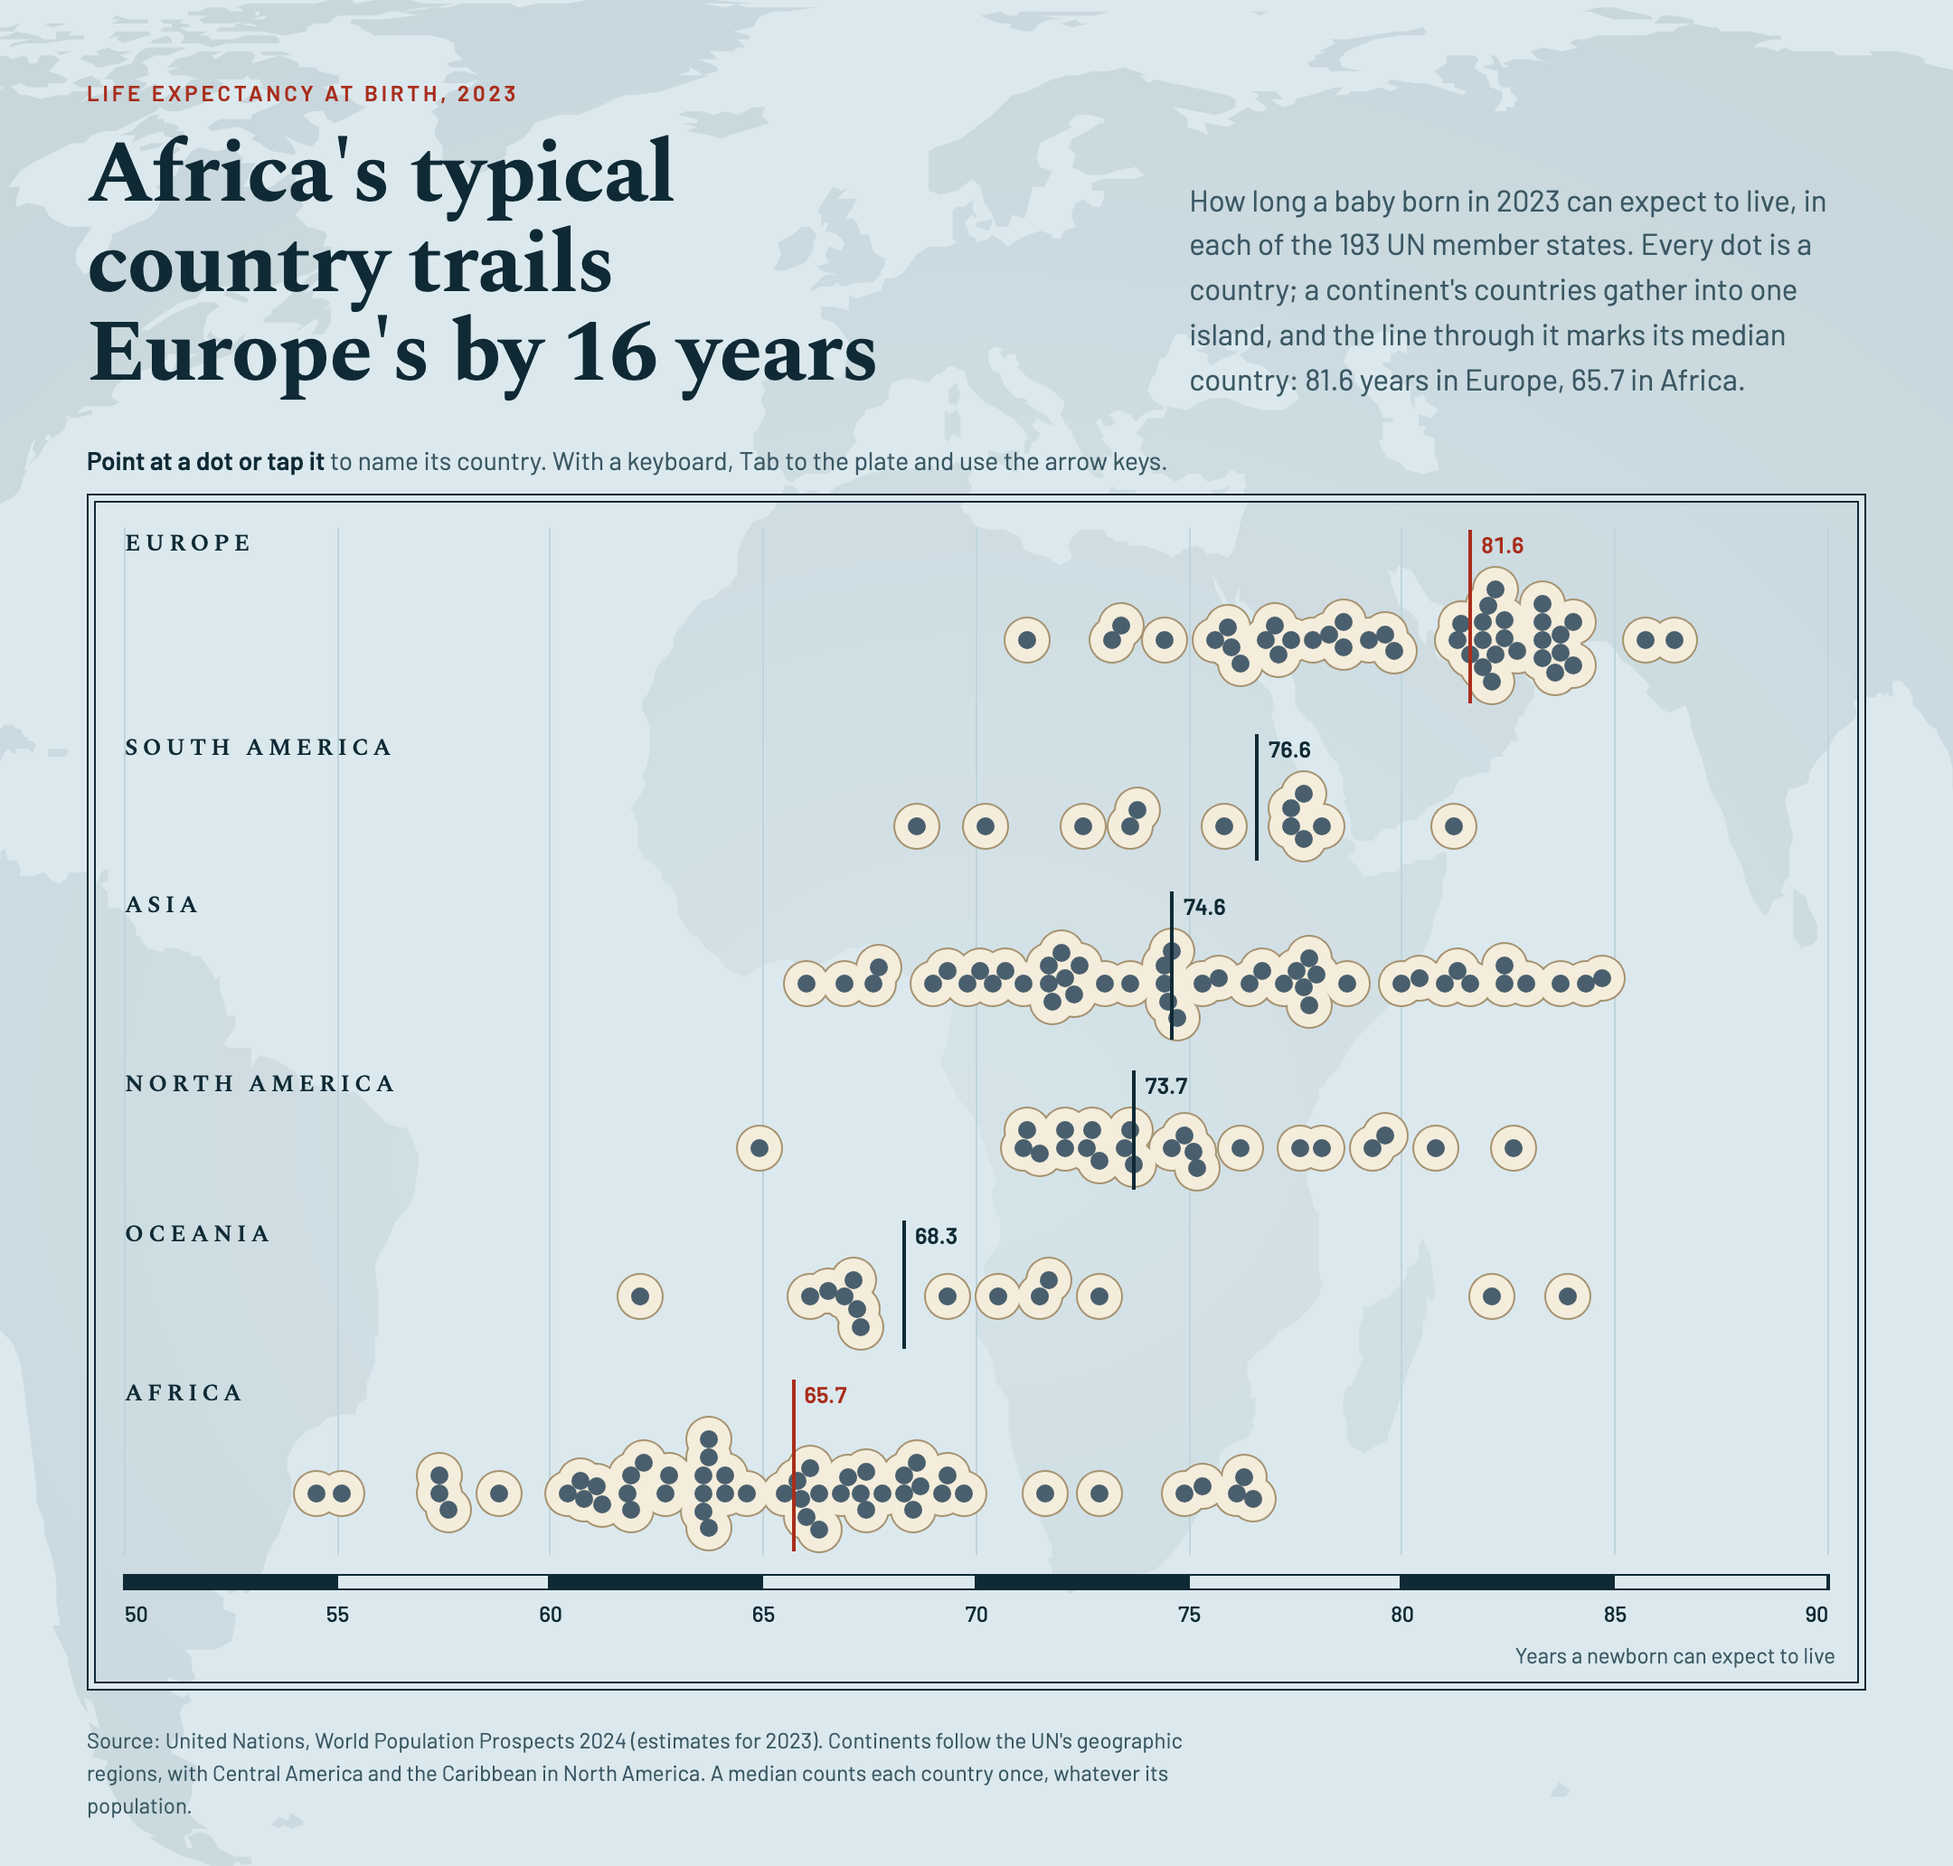
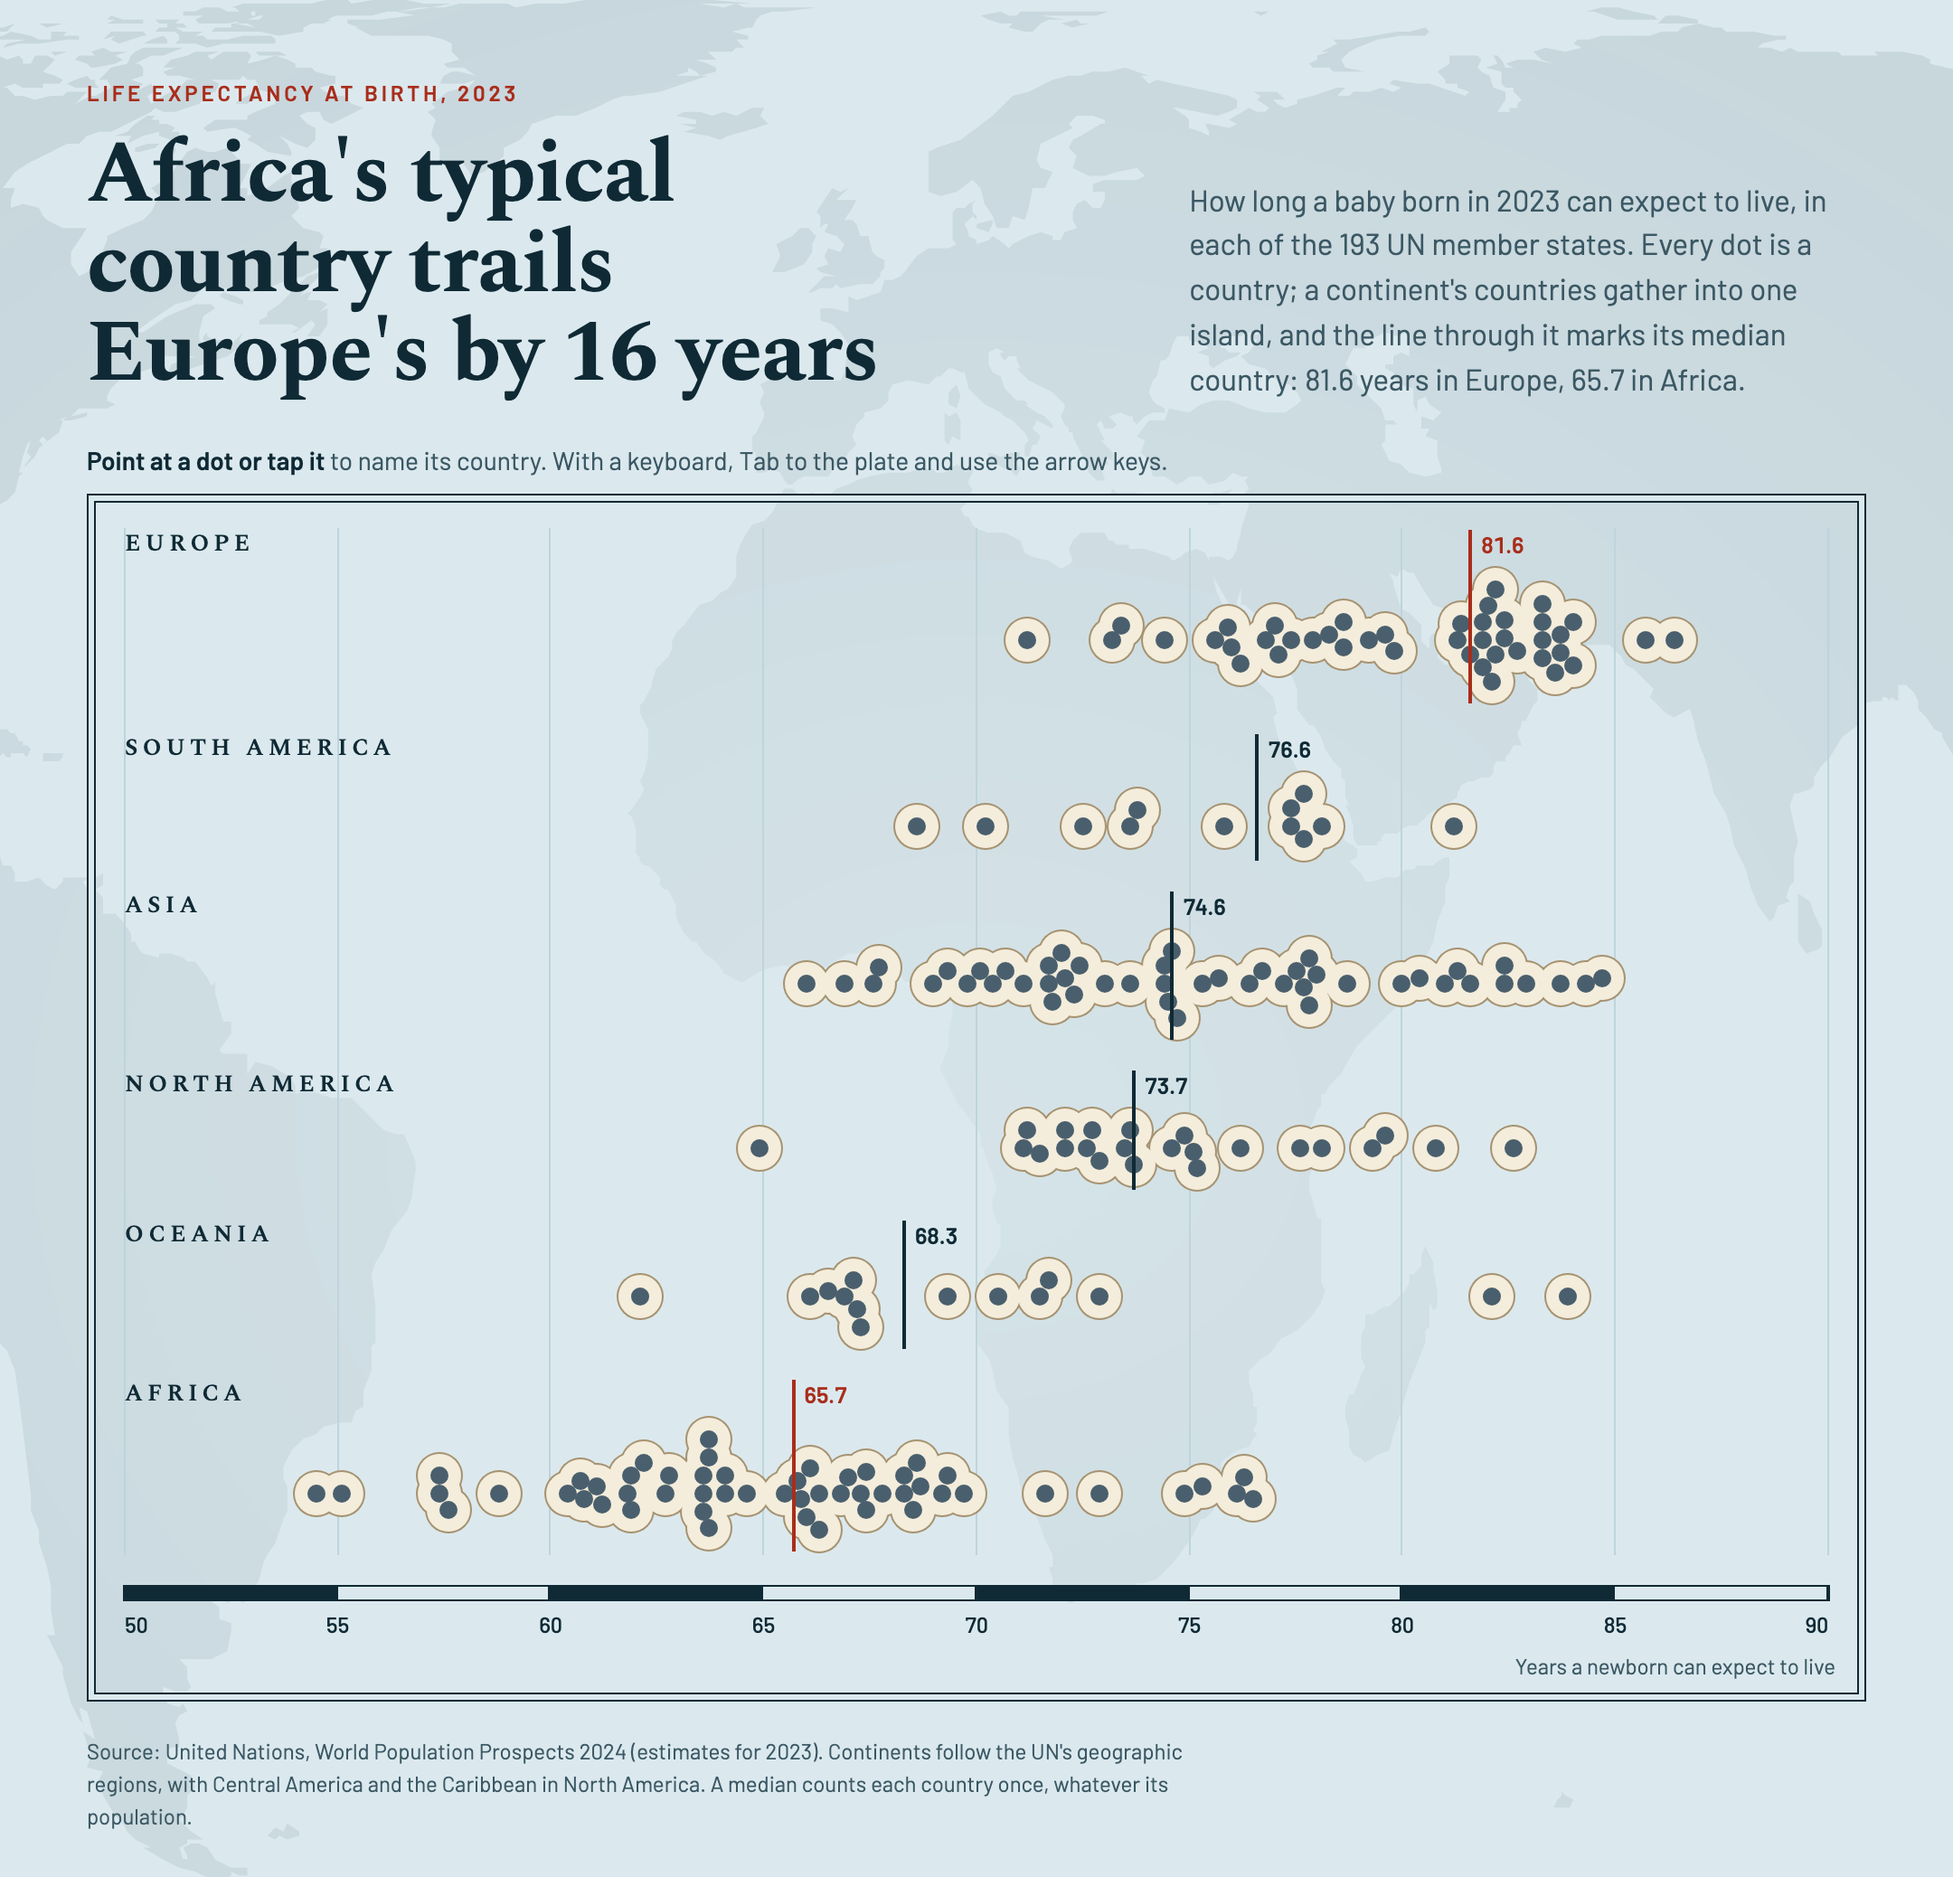
Recipe 35: 6px more again between the islands and the scale under them

diff --git a/public/gallery/posters/life-expectancy/index.html b/public/gallery/posters/life-expectancy/index.html
@@ -219,12 +219,12 @@ const THEME = {
 // The scale under the plate, drawn as an atlas's scale bar: a segment every five years, inked and blank in turn,
 // with its number; a faint meridian runs up from each one
 const Years = slat({
-  room: { start: 4, end: 4, after: 46 },
+  room: { start: 4, end: 4, after: 52 },
   css: `
     .meridian { --rhp-tick-width: 1px; background: var(--rhp-grid); }
-    .seg { top: calc(100% + 15px); bottom: auto; height: 7px; --rhp-radius: 0px; background: var(--rhp-ink); box-shadow: 0 0 0 1px var(--rhp-ink); }
+    .seg { top: calc(100% + 21px); bottom: auto; height: 7px; --rhp-radius: 0px; background: var(--rhp-ink); box-shadow: 0 0 0 1px var(--rhp-ink); }
     .blank .seg { background: var(--rhp-surface); }
-    .num { top: calc(100% + 26px); bottom: auto; translate: -50% 0; --rhp-label-gap: 0px; font-size: 12px; font-weight: 500; color: var(--rhp-ink); }
+    .num { top: calc(100% + 32px); bottom: auto; translate: -50% 0; --rhp-label-gap: 0px; font-size: 12px; font-weight: 500; color: var(--rhp-ink); }
     .first .num { translate: 0 0; }
     .last .num { translate: -100% 0; }
   `,
